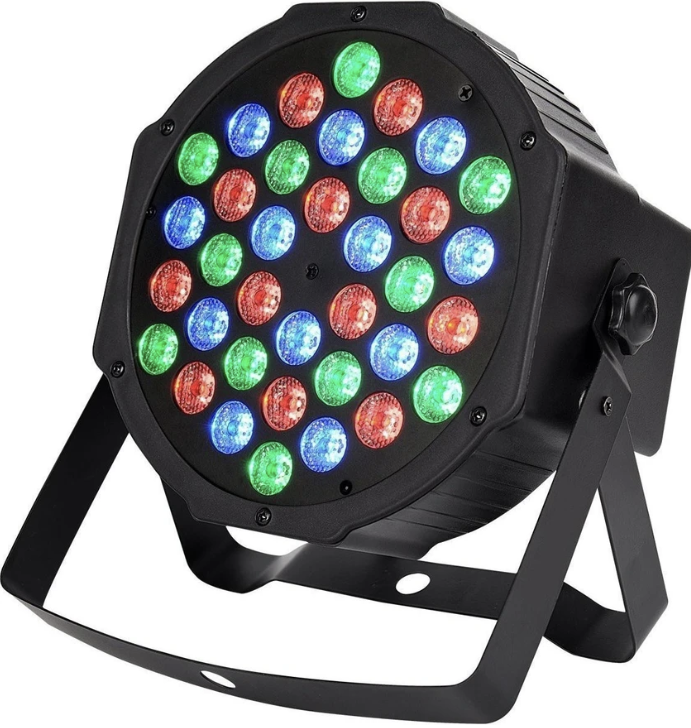
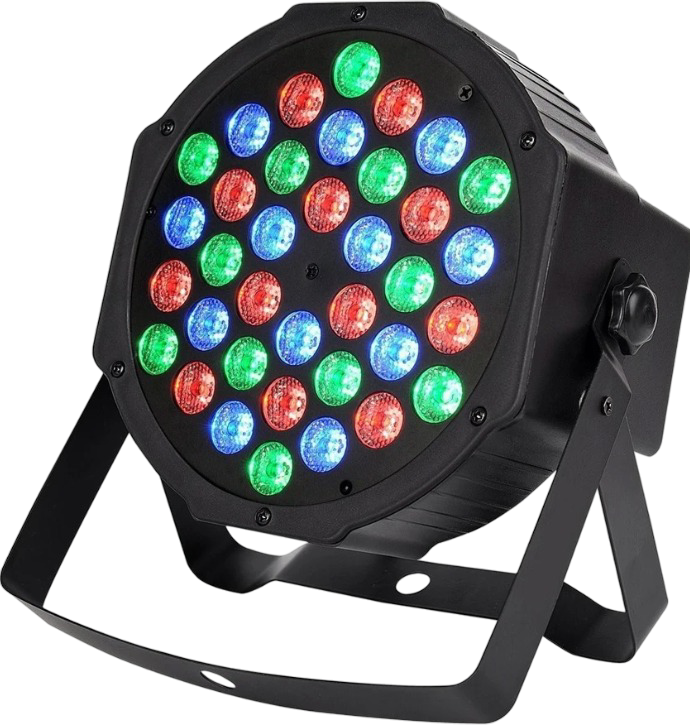
Images Edit
Removed the background and resized some images

diff --git a/about.html b/about.html
@@ -44,13 +44,6 @@
 
     <div class = "about-containers">
         <div class = "form-box">
-            <h1>DJ Mangi</h1>
-            <img src="img/djmangi.png" alt="DJ Mangi" class="dj-photo">
-        </div>
-    </div>
-
-    <div class = "about-containers">
-        <div class = "form-box">
             <h1>About</h1>
             <h3>
                 Business Casual has been DJing around the Chapel Hill area and beyond for 
@@ -63,6 +56,15 @@
             </h3>
         </div>
     </div>
+
+    <div class = "about-containers">
+        <div class = "form-box">
+            <h1>DJ Mangi</h1>
+            <img src="img/djmangi.png" alt="DJ Mangi" class="dj-photo">
+        </div>
+    </div>
+
+
     <div class = "about-containers">
         <div class = "form-box">
             <h1>DJ C-Dubz</h1>

diff --git a/rentals.html b/rentals.html
@@ -61,7 +61,7 @@
     <div class = "rental-containers">
         <div class = "form-box">
             <h1>Lights</h1>
-            <img src="img/lights.png" alt="DJ lights" class="rental-photo">
+            <img src="img/lights.png" alt="DJ lights" class="lights-photo">
             <a href="contact.html">Get Quote</a>
         </div>
     </div>
@@ -77,7 +77,7 @@
     <div class = "rental-containers">
         <div class = "form-box">
             <h1>Pioneer DDJ FLX-4</h1>
-            <img src="img/flx-4.png" alt="DJ Board" class="rental-photo">
+            <img src="img/flx-4.png" alt="DJ Board" class="dj-board-photo">
             <a href="contact.html">Get Quote</a>
         </div>
     </div>

diff --git a/css/stylesheet.css b/css/stylesheet.css
@@ -382,6 +382,22 @@ header
     object-fit: cover;
 }
 
+.dj-board-photo 
+{
+    width: 80%;
+    height: auto;
+    margin-top: 1rem;
+    object-fit: cover;
+}
+
+.lights-photo 
+{
+    width: 50%;
+    height: auto;
+    margin-top: 1rem;
+    object-fit: cover;
+}
+
 .rental-containers a 
 {
     background-color: var(--accent);
